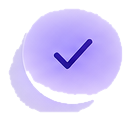
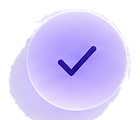
fix(буллеты): нутро иконки НЕ трогаем — border flood-fill + жёсткая кромка (цельный стикер)
Юзер (3-й раз): «вырезаешь фон ВНУТРИ самой иконки». Я перестарался с жёстким глобальным порогом
(dist>44) — выедало светлые части и нутро. Вернул border flood-fill: убираем ТОЛЬКО внешний фон,
связанный с краем; нутро/плашка иконки ЦЕЛЫЕ (не трогаем). + жёсткая кромка (alpha = не-внешний-фон,
0.6px AA) вместо feather → без ореола-halo; тень давится. «Белые квадраты» были CSS-багом (уже
починен), поэтому сегментацию можно вернуть к бережной. tools/cut_bullet_sheet.py обновлён.

Проверено (монтаж на синем): иконки цельные (галка внутри круга, кольцо, мишень — на месте),
плашка = родной дизайн иконки, без выеденного нутра.

diff --git a/tools/cut_bullet_sheet.py b/tools/cut_bullet_sheet.py
@@ -32,7 +32,7 @@ labels = [
  'Прогресс','Рост график','Лист природа','Огонь энергия','Сердце забота','Бриллиант ценность','Корона статус',
  'Локация','Время','Документ','Щит надёжность','Команда люди','Образование','Ракета старт']
 
-T = 44      # порог «это фон» по евклид. расстоянию к bg
+T = 22      # порог «это фон» по евклид. расстоянию к bg
 FEATHER = 16
 saved = []
 for r in range(4):
@@ -58,21 +58,18 @@ for r in range(4):
         border_ids.discard(0)
         outer_bg = np.isin(lbl, list(border_ids))   # только внешний фон; ВНУТРЕННИЙ near_bg сохраняем
         # мягкая альфа: 0 на внешнем фоне, ramp по расстоянию у кромки, 255 внутри объекта
-        # ⭐ ЖЁСТКИЙ die-cut: только уверенно-не-фон (dist>T и не тень), морфология чистит,
-        # 0.6px гаусс — только сглаживание кромки. Никаких полупрозрачных плашек/теней/ореолов
-        # (иначе на цветном слайде вылезают «квадраты»).
-        solid = (dist > T) & (~shadow)
-        solid = ndimage.binary_closing(solid, np.ones((3, 3)))
-        solid = ndimage.binary_opening(solid, np.ones((2, 2)))
-        a = ndimage.gaussian_filter(solid.astype(np.float32), 0.6)
-        a8 = (np.clip(a, 0, 1) * 255).astype(np.uint8)
+        # ⭐ border flood-fill + ЖЁСТКАЯ кромка: икона (всё, что НЕ внешний фон) = непрозрачна,
+        # нутро/плашка ЦЕЛЫЕ (не трогаем), тень/внешний фон = 0, без feather-ореола. 0.6px — только AA.
+        alpha = (~outer_bg).astype(np.float32)
+        alpha = ndimage.gaussian_filter(alpha, 0.6)
+        a8 = (np.clip(alpha, 0, 1) * 255).astype(np.uint8)
         # выкидываем мелкие ошмётки (остатки цифры/подписи, блик-искры), оставляем крупные компоненты
         sol = a8 > 40
         cl, cn = ndimage.label(sol, structure=np.ones((3, 3)))
         if cn:
             sizes = ndimage.sum(np.ones_like(cl), cl, range(1, cn + 1))
             big = max(sizes)
-            keep = {i + 1 for i, s in enumerate(sizes) if s >= max(120, big * 0.06)}
+            keep = {i + 1 for i, s in enumerate(sizes) if s >= max(400, big * 0.14)}
             a8[~np.isin(cl, list(keep))] = 0
         ys_, xs_ = np.where(a8 > 18)
         if len(xs_) == 0:
